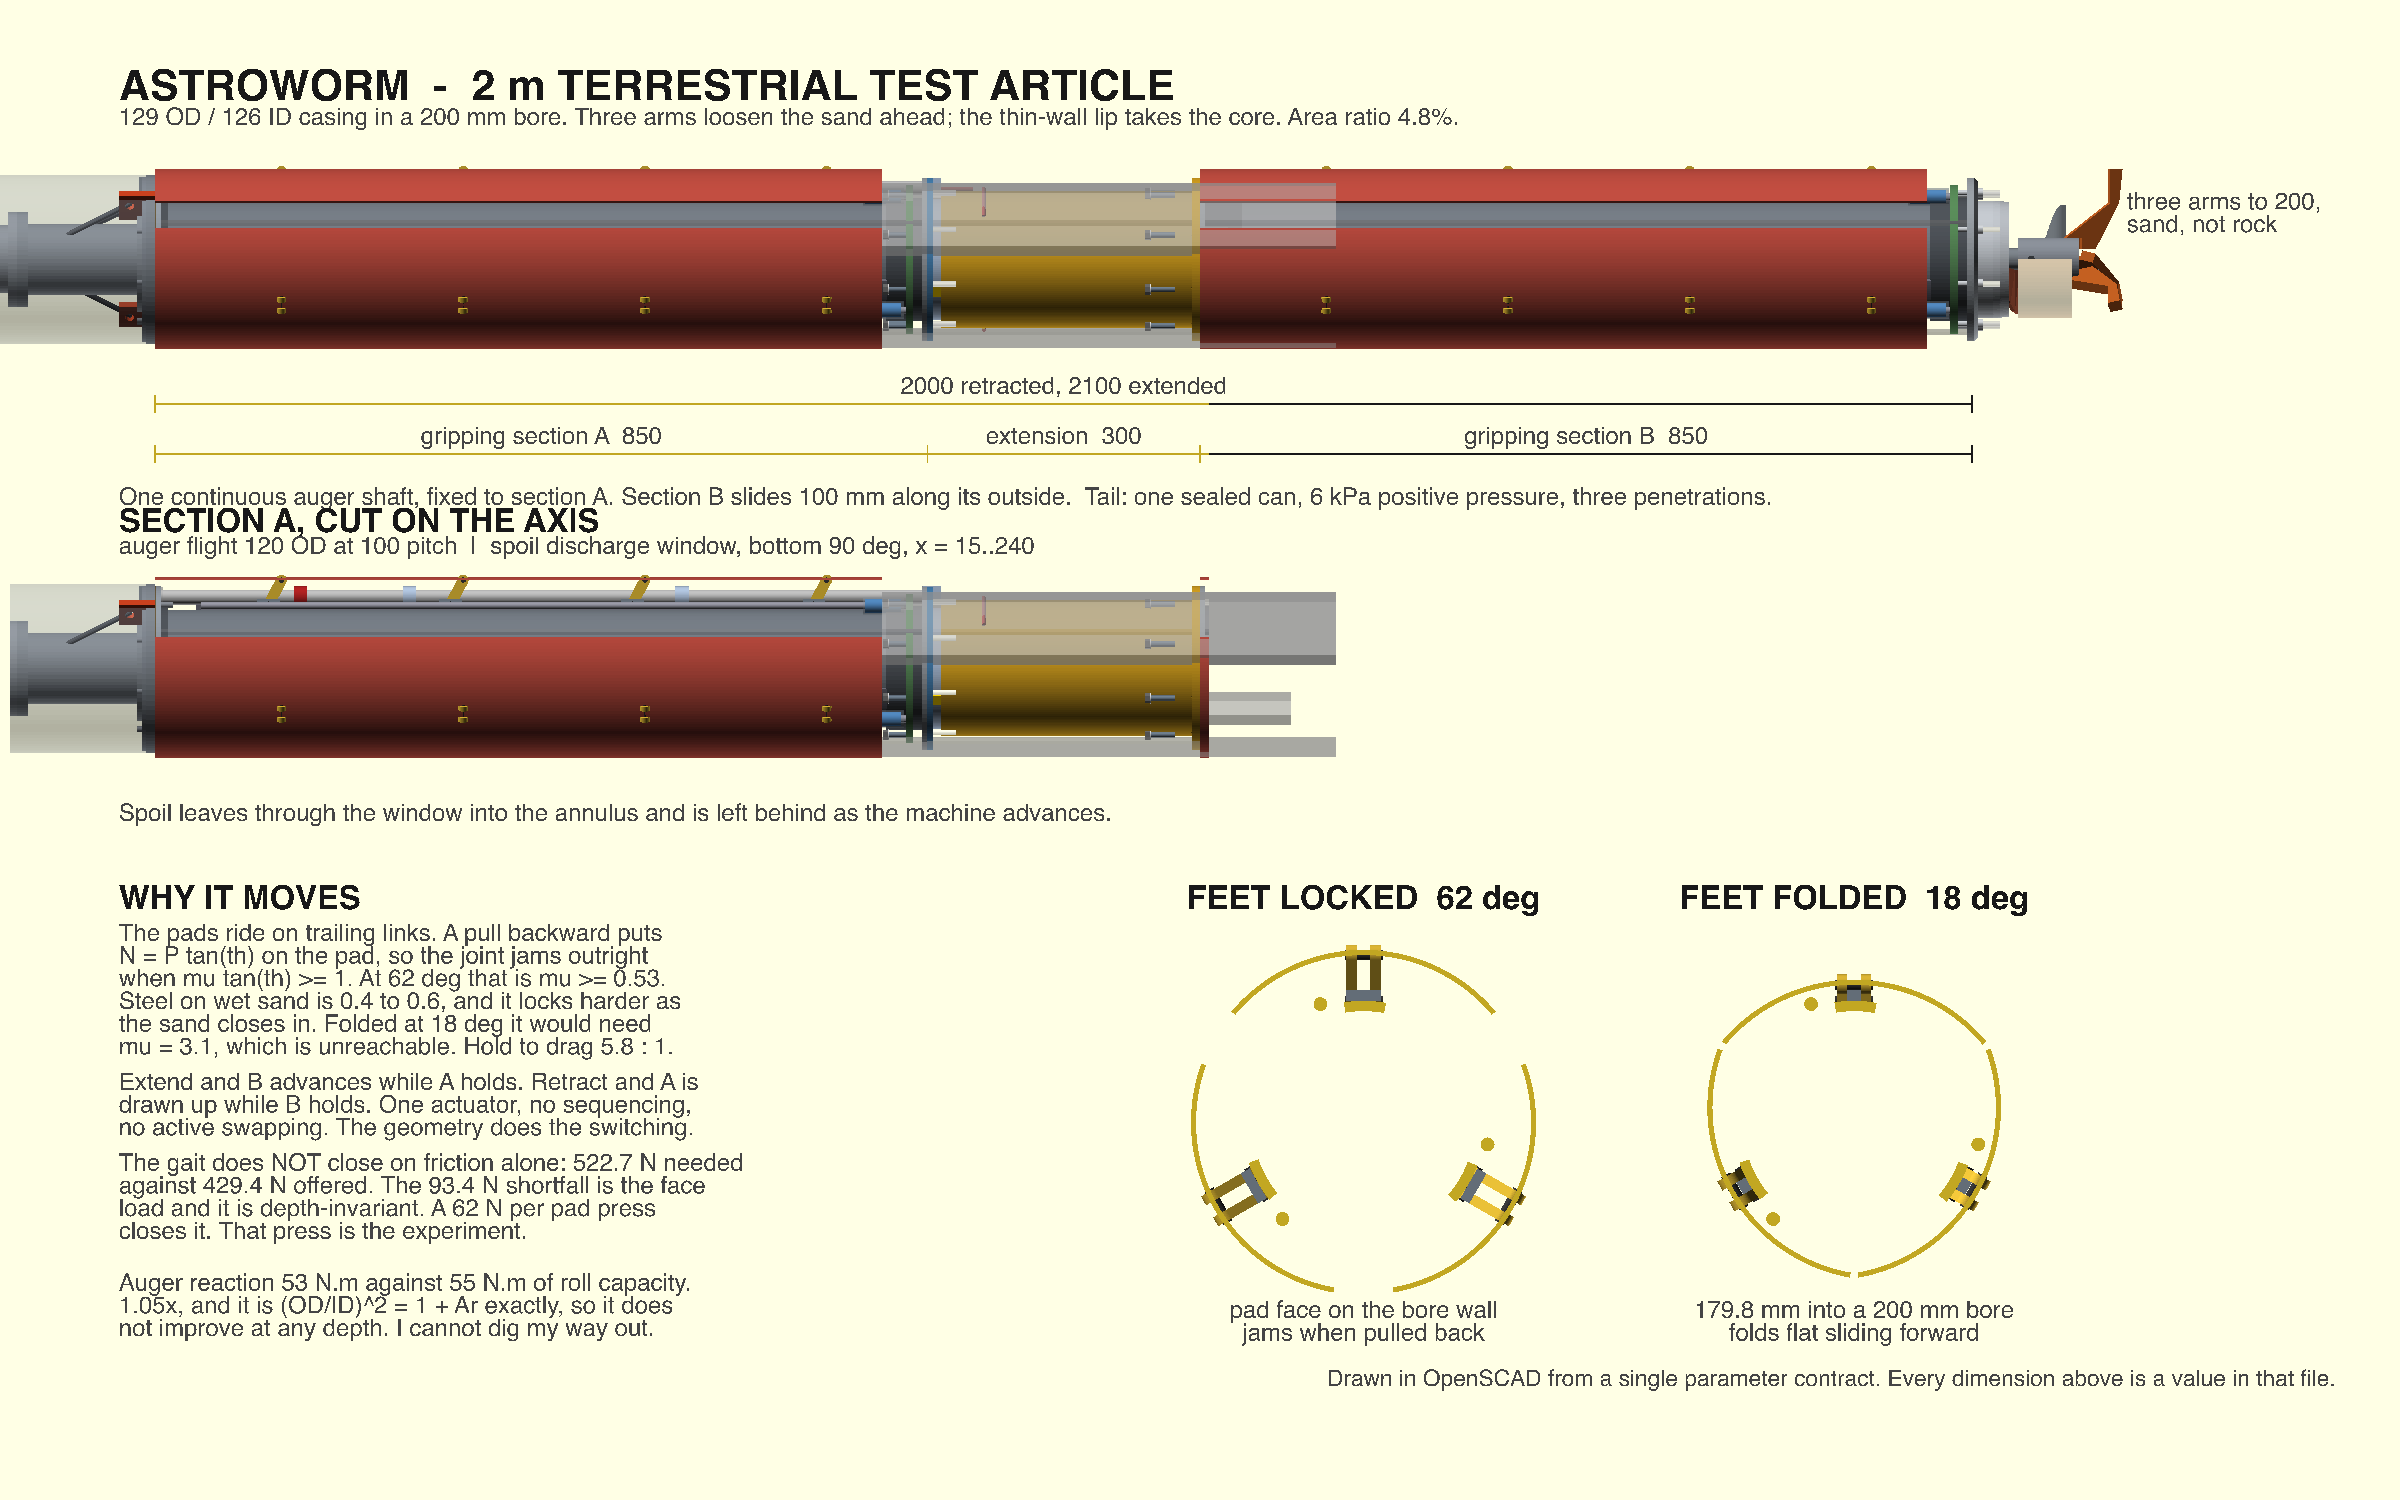
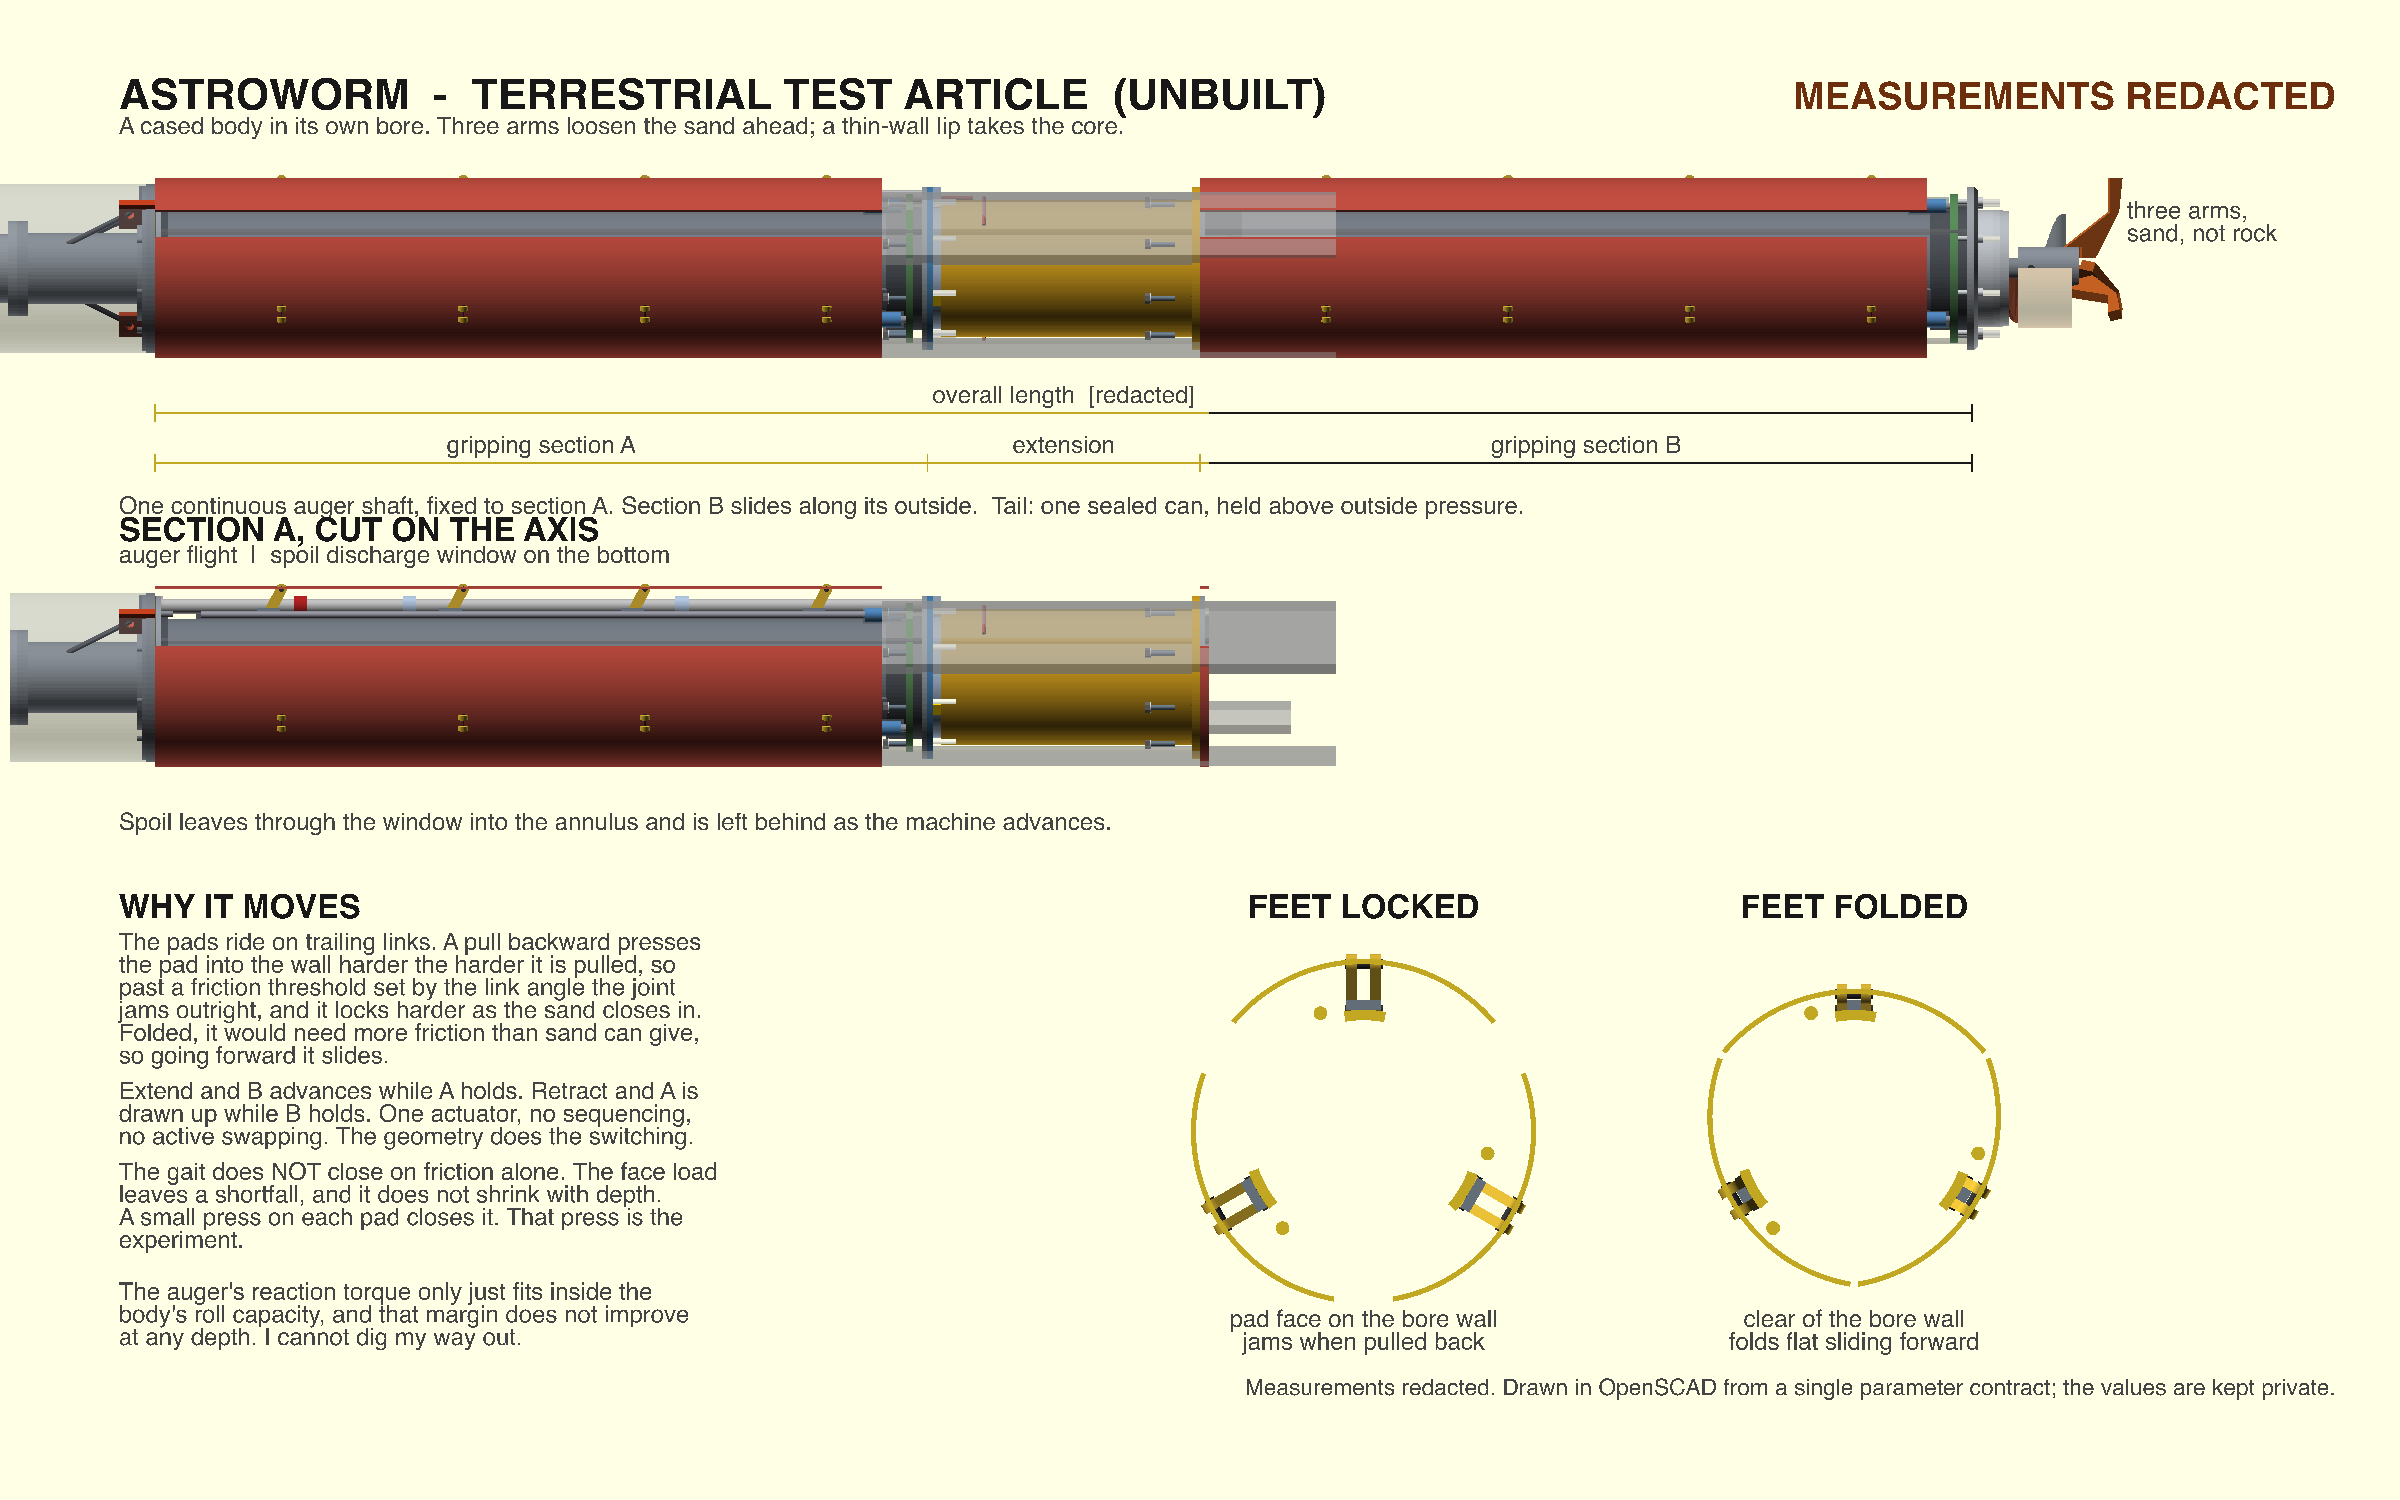
Bench drawing: measurements redacted, back in the README as unbuilt

diff --git a/README.md b/README.md
@@ -62,13 +62,20 @@ proven, one step at a time, on ground that can be reached by truck.
 | | |
 |---|---|
 | Asteroid anchor (the worm) | Designed in CAD; load paths and anchoring analysed |
-| 2 m terrestrial test article | Drawn, **not built** |
+| Terrestrial test article | Drawn, **not built** |
 | Water Worm W1 (tank model) | Designed in CAD, layout and leak checks pass, **not built** |
 | Full-size water worm | Concept; first-prototype budget estimated |
 | Pond pilot | A mine operator has agreed to share site data |
 
 Unbuilt things are labelled unbuilt. When something is tested, the result goes
 here, including when it fails.
+
+## The terrestrial test article
+
+![bench article](astroworm-bench-cad.png)
+
+*Unbuilt. General arrangement for a terrestrial test article of the worm, to be
+run horizontally in wet sand. Measurements redacted.*
 
 ## What is not here
 
